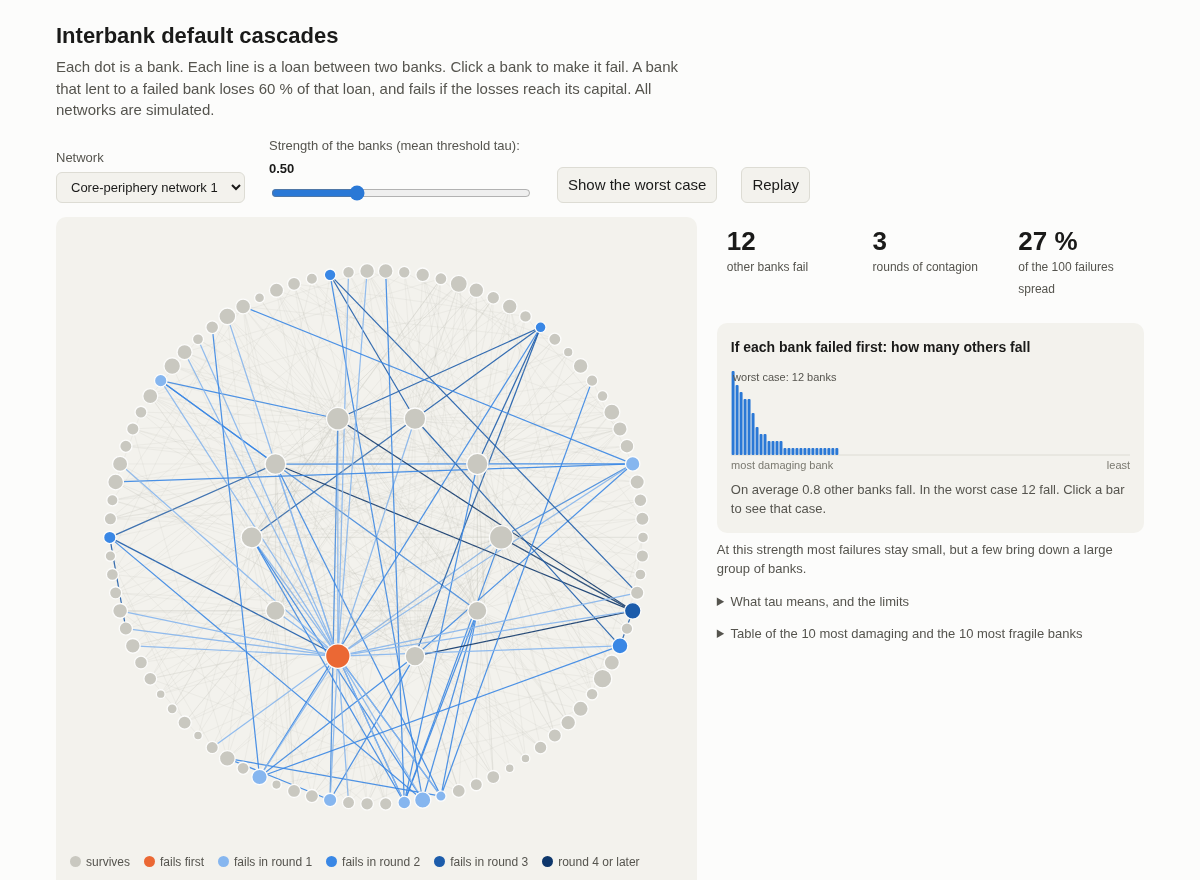
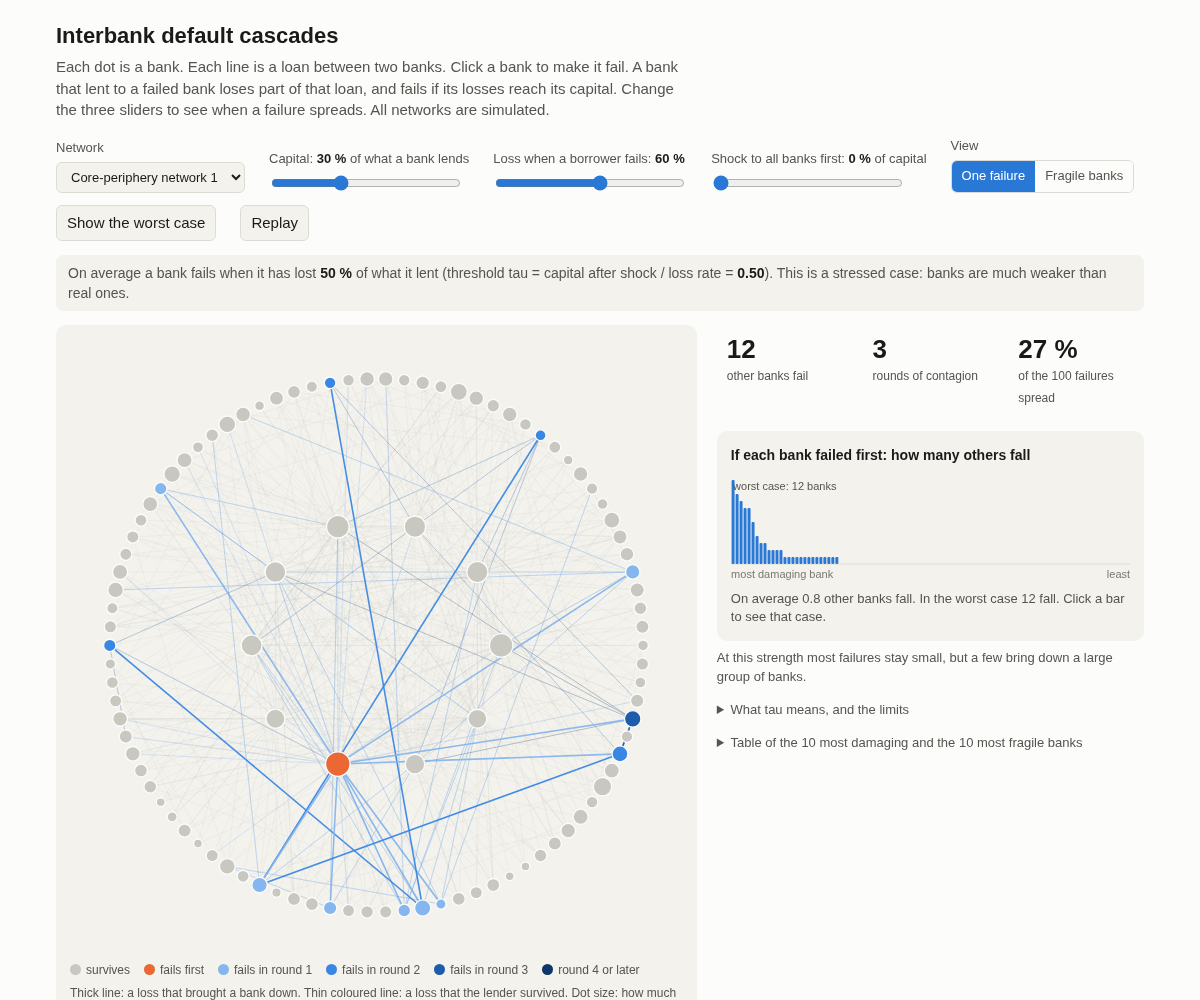
Page: three sliders, fragile-banks view, clearer loan lines, bar chart fix

diff --git a/docs/index.html b/docs/index.html
@@ -14,7 +14,7 @@
     :root:not([data-theme="light"]) {
       --surface: #1a1a19; --panel: #242422; --ink: #ffffff; --ink2: #c3c2b7; --muted: #96958b;
       --line: #3a3a36; --link: #55544e; --bank: #4a4944; --bank-edge: #7a7970;
-      --trigger: #d95926; --r1: #184f95; --r2: #2a78d6; --r3: #6da7ec; --r4: #cde2fb; --accent: #3987e5;
+      --trigger: #eb6834; --r1: #2a78d6; --r2: #5598e7; --r3: #9ec5f4; --r4: #e6f0fd; --accent: #3987e5;
     }
   }
   * { box-sizing: border-box; }
@@ -31,6 +31,12 @@
   button:hover, select:hover { border-color: var(--accent); }
   input[type=range] { width: 260px; accent-color: var(--accent); }
   .tau-value { font-variant-numeric: tabular-nums; color: var(--ink); font-weight: 600; }
+  .controls input[type=range] { width: 190px; }
+  .formula { background: var(--panel); border-radius: 8px; padding: 8px 12px; margin: 0 0 14px; font-size: 14px; color: var(--ink2); }
+  .formula b { color: var(--ink); font-variant-numeric: tabular-nums; }
+  .seg { display: inline-flex; border: 1px solid var(--line); border-radius: 6px; overflow: hidden; }
+  .seg button { border: 0; border-radius: 0; background: var(--surface); color: var(--ink2); }
+  .seg button[aria-pressed=true] { background: var(--accent); color: #fff; }
   .layout { display: grid; grid-template-columns: minmax(0, 1.5fr) minmax(280px, 1fr); gap: 20px; }
   @media (max-width: 820px) { .layout { grid-template-columns: 1fr; } input[type=range] { width: 100%; } }
   .card { background: var(--panel); border-radius: 10px; padding: 14px; }
@@ -59,16 +65,27 @@
 <main>
   <h1>Interbank default cascades</h1>
   <p class="lead">Each dot is a bank. Each line is a loan between two banks. Click a bank to make it fail. A bank that
-  lent to a failed bank loses 60&nbsp;% of that loan, and fails if the losses reach its capital. All networks are simulated.</p>
+  lent to a failed bank loses part of that loan, and fails if its losses reach its capital. Change the three sliders to see when a failure spreads. All networks are simulated.</p>
 
   <div class="controls">
     <label>Network <select id="which"></select></label>
-    <label>Strength of the banks (mean threshold tau): <span class="tau-value" id="tauv"></span>
-      <input id="tau" type="range" min="0.15" max="1.25" step="0.05" value="0.5">
+    <label><span>Capital: <span class="tau-value" id="capv"></span> of what a bank lends</span>
+      <input id="cap" type="range" min="5" max="75" step="1" value="30">
+    </label>
+    <label><span>Loss when a borrower fails: <span class="tau-value" id="lgdv"></span></span>
+      <input id="lgd" type="range" min="10" max="100" step="5" value="60">
+    </label>
+    <label><span>Shock to all banks first: <span class="tau-value" id="shockv"></span> of capital</span>
+      <input id="shock" type="range" min="0" max="50" step="1" value="0">
+    </label>
+    <label>View
+      <span class="seg"><button id="v-cascade" aria-pressed="true">One failure</button><button id="v-frag" aria-pressed="false">Fragile banks</button></span>
     </label>
     <button id="worst">Show the worst case</button>
     <button id="replay">Replay</button>
   </div>
+
+  <p class="formula" id="formula"></p>
 
   <div class="layout">
     <div class="card">
@@ -89,10 +106,12 @@
       <p class="note" id="reading"></p>
       <details>
         <summary>What tau means, and the limits</summary>
-        <p>tau is the share of its lending that a bank can lose before it fails. A low tau means weak banks. Banks differ:
-        each one has its own threshold around the mean that you set. Real banks sit at high values, where one failure
-        does little; the low values are a stressed case.</p>
-        <p>The rule is the sequential default algorithm (Furfine 2003) with a fixed loss given default of 60&nbsp;%.
+        <p>tau is the share of its lending that a bank can lose before it fails: capital after the shock, divided by the loss
+        rate and by what the bank lends. The three sliders are therefore one single knob. Two settings with the same tau give
+        exactly the same cascades. A low tau means weak banks. Banks differ: each one has its own threshold around the mean.
+        Real banks sit at high values (about 0.85 to 1.15 on rough averages), where one failure does little; the low values
+        are a stressed case.</p>
+        <p>The rule is the sequential default algorithm (Furfine 2003) with a fixed loss given default.
         Only one channel of contagion is modelled (solvency). The page runs the same rule as the Python code of the
         repository, and a test checks that both give the same 1,800 cascades.</p>
       </details>
@@ -130,7 +149,10 @@ function showTip(evt, html) {
 }
 const hideTip = () => { tip.style.opacity = 0; };
 
-let net, prep, capital, all, trigger = null, shown = 99, timer = null;
+let net, prep, capital, all, trigger = null, shown = 99, timer = null, view = "cascade";
+// capital c (share of lending), loss rate LGD and common shock s combine into one threshold
+const tauNow = () => (+$("cap").value / 100) * (1 - +$("shock").value / 100) / (+$("lgd").value / 100);
+const fragColor = (f, max) => f <= 0 ? "var(--bank)" : `var(--r${Math.min(4, 1 + Math.floor(3.999 * f / max))})`;
 
 NETWORKS.forEach((n, i) => $("which").add(new Option(n.label, i)));
 
@@ -163,33 +185,37 @@ function bankTip(i) {
     all.rounds[trigger][i] === 0 ? "<br><b>Failed first</b>" :
     all.rounds[trigger][i] > 0 ? `<br><b>Fails in round ${all.rounds[trigger][i]}</b>` : "<br>Survives";
   return `<b>Bank ${i + 1}</b><br>Lends to ${nb} banks, borrows from ${nl}` +
-    `<br>Can lose ${(100 * Math.min(1, +$("tau").value * net.strength[i])).toFixed(0)} % of its lending` +
+    `<br>Fails if it loses ${(100 * tauNow() * net.strength[i]).toFixed(0)} % of its lending` +
     `<br>If it fails first: ${all.sizes[i]} others fall` +
     `<br>Falls in ${(100 * all.fragility[i]).toFixed(0)} % of the other banks' failures${state}`;
 }
 
 function paint() {
-  const rounds = trigger === null ? null : all.rounds[trigger];
+  const frag = view === "frag";
+  const rounds = trigger === null || frag ? null : all.rounds[trigger];
+  const fmax = Math.max(...all.fragility, 1e-9);
   document.querySelectorAll("#banks circle").forEach((c) => {
-    const r = rounds ? rounds[+c.dataset.i] : -1;
-    c.setAttribute("fill", roundColor(r >= 0 && r <= shown ? r : -1));
+    const i = +c.dataset.i, r = rounds ? rounds[i] : -1;
+    c.setAttribute("fill", frag ? fragColor(all.fragility[i], fmax) : roundColor(r >= 0 && r <= shown ? r : -1));
   });
   document.querySelectorAll("#links line").forEach((l) => {
     const [i, j] = net.links[+l.dataset.k];
     const rj = rounds ? rounds[j] : -1;
     const on = rj >= 0 && rj < shown;  // the borrower has failed: the lender takes a loss on this loan
     l.setAttribute("stroke", on ? roundColor(Math.min(rj + 1, 4)) : "var(--link)");
-    l.setAttribute("stroke-width", on ? 1.4 : 0.6);
-    l.setAttribute("opacity", on ? 0.9 : rounds ? 0.25 : 0.55);
+    const kills = on && rounds[i] > rj && rounds[i] <= shown;  // this loss is part of why the lender failed
+    l.setAttribute("stroke-width", kills ? 1.8 : on ? 0.8 : 0.6);
+    l.setAttribute("opacity", kills ? 0.95 : on ? 0.4 : rounds ? 0.2 : 0.55);
   });
   document.querySelectorAll("#strip rect.bar").forEach((b) =>
-    b.setAttribute("fill", +b.dataset.i === trigger ? "var(--trigger)" : "var(--accent)"));
+    b.setAttribute("fill", +b.dataset.i === trigger && !frag ? "var(--trigger)" : "var(--accent)"));
+  legend();
 }
 
 function tiles() {
   const spread = all.sizes.filter((s) => s > 0).length;
   $("t-share").innerHTML = spread + "&nbsp;%";
-  if (trigger === null) { $("t-size").textContent = "–"; $("t-rounds").textContent = "–"; return; }
+  if (trigger === null || view === "frag") { $("t-size").textContent = "–"; $("t-rounds").textContent = "–"; return; }
   $("t-size").textContent = all.sizes[trigger];
   $("t-rounds").textContent = Math.max(...all.rounds[trigger]);
 }
@@ -203,7 +229,7 @@ function strip() {
   svg.append(svgEl("line", { x1: 0, x2: W, y1: H - bottom, y2: H - bottom, stroke: "var(--line)" }));
   order.forEach((i, k) => {
     const h = (H - top - bottom) * all.sizes[i] / max;
-    const hit = svgEl("rect", { x: k * bw, y: 0, width: bw, height: H - bottom, fill: "transparent", class: "bar" });
+    const hit = svgEl("rect", { x: k * bw, y: 0, width: bw, height: H - bottom, fill: "transparent", class: "hit", style: "cursor:pointer" });
     const bar = svgEl("rect", { class: "bar", "data-i": i, x: k * bw + 0.5, y: H - bottom - Math.max(h, all.sizes[i] ? 2 : 0),
       width: Math.max(bw - 1, 1), height: Math.max(h, all.sizes[i] ? 2 : 0), rx: 1, fill: "var(--accent)" });
     for (const e of [hit, bar]) {
@@ -230,7 +256,7 @@ function tables() {
 }
 
 function reading() {
-  const tau = +$("tau").value, worst = Math.max(...all.sizes);
+  const worst = Math.max(...all.sizes);
   $("reading").textContent =
     worst === 0 ? "At this strength no failure spreads. This is the usual state of a healthy system." :
     worst < 10 ? "At this strength a failure sometimes brings down a few banks, never many." :
@@ -247,12 +273,23 @@ function animate() {
   timer = setInterval(() => { shown += 1; paint(); if (shown > last) clearInterval(timer); }, 650);
 }
 
-function fail(i) { trigger = i; tiles(); animate(); }
+function setView(v) {
+  view = v;
+  $("v-cascade").setAttribute("aria-pressed", v === "cascade");
+  $("v-frag").setAttribute("aria-pressed", v === "frag");
+  clearInterval(timer); shown = 99; tiles(); paint();
+}
+
+function fail(i) { trigger = i; if (view !== "cascade") setView("cascade"); tiles(); animate(); }
 
 function recompute(keepTrigger) {
-  capital = capitalOf(net, prep, +$("tau").value);
+  const tau = tauNow();
+  capital = capitalOf(net, prep, tau);
   all = allCascades(net, prep, capital);
-  $("tauv").textContent = (+$("tau").value).toFixed(2);
+  $("capv").textContent = $("cap").value + " %"; $("lgdv").textContent = $("lgd").value + " %"; $("shockv").textContent = $("shock").value + " %";
+  $("formula").innerHTML = `On average a bank fails when it has lost <b>${(100 * tau).toFixed(0)} %</b> of what it lent ` +
+    `(threshold tau = capital after shock / loss rate = <b>${tau.toFixed(2)}</b>). ` +
+    (tau >= 0.85 ? "This is the range of real banks: one failure does little." : tau >= 0.6 ? "Banks are weaker than real ones." : "This is a stressed case: banks are much weaker than real ones.");
   if (!keepTrigger) trigger = null;
   shown = 99; clearInterval(timer);
   tiles(); strip(); tables(); reading(); paint();
@@ -263,12 +300,19 @@ function load() {
   buildNetwork(); recompute(false);
 }
 
-$("legend").innerHTML =
-  `<span><i style="background:var(--bank)"></i>survives</span><span><i style="background:var(--trigger)"></i>fails first</span>` +
-  [1, 2, 3].map((r) => `<span><i style="background:var(--r${r})"></i>fails in round ${r}</span>`).join("") +
-  `<span><i style="background:var(--r4)"></i>round 4 or later</span><span>Dot size: how much the bank lends</span>`;
+function legend() {
+  $("legend").innerHTML = view === "frag"
+    ? `<span><i style="background:var(--bank)"></i>never brought down</span>` +
+      [1, 2, 3, 4].map((r) => `<span><i style="background:var(--r${r})"></i>${["sometimes", "more often", "often", "most often"][r - 1]}</span>`).join("") +
+      `<span>Colour: in how many of the other banks' failures this bank falls</span>`
+    : `<span><i style="background:var(--bank)"></i>survives</span><span><i style="background:var(--trigger)"></i>fails first</span>` +
+      [1, 2, 3].map((r) => `<span><i style="background:var(--r${r})"></i>fails in round ${r}</span>`).join("") +
+      `<span><i style="background:var(--r4)"></i>round 4 or later</span><span>Thick line: a loss that brought a bank down. Thin coloured line: a loss that the lender survived. Dot size: how much the bank lends</span>`;
+}
 $("which").addEventListener("change", load);
-$("tau").addEventListener("input", () => recompute(true));
+for (const id of ["cap", "lgd", "shock"]) $(id).addEventListener("input", () => recompute(true));
+$("v-cascade").addEventListener("click", () => setView("cascade"));
+$("v-frag").addEventListener("click", () => setView("frag"));
 $("worst").addEventListener("click", () => fail(all.sizes.indexOf(Math.max(...all.sizes))));
 $("replay").addEventListener("click", animate);
 window.addEventListener("resize", strip);

diff --git a/README.md b/README.md
@@ -8,8 +8,8 @@ real bank-to-bank exposures are confidential, so every network here is simulated
 
 ## See it
 
-An interactive page shows the cascades: choose a network, set how strong the banks are, click a bank to make it
-fail. Open `docs/index.html` in a browser, or the hosted copy: https://balmisjutas.github.io/interbank-cascades/
+An interactive page shows the cascades: choose a network, set the capital of the banks, the loss rate and a common
+shock, then click a bank to make it fail. A second view colours the banks by how fragile they are. Open `docs/index.html` in a browser, or the hosted copy: https://balmisjutas.github.io/interbank-cascades/
 
 [![The interactive page](figures/viewer.png)](https://balmisjutas.github.io/interbank-cascades/)
 
